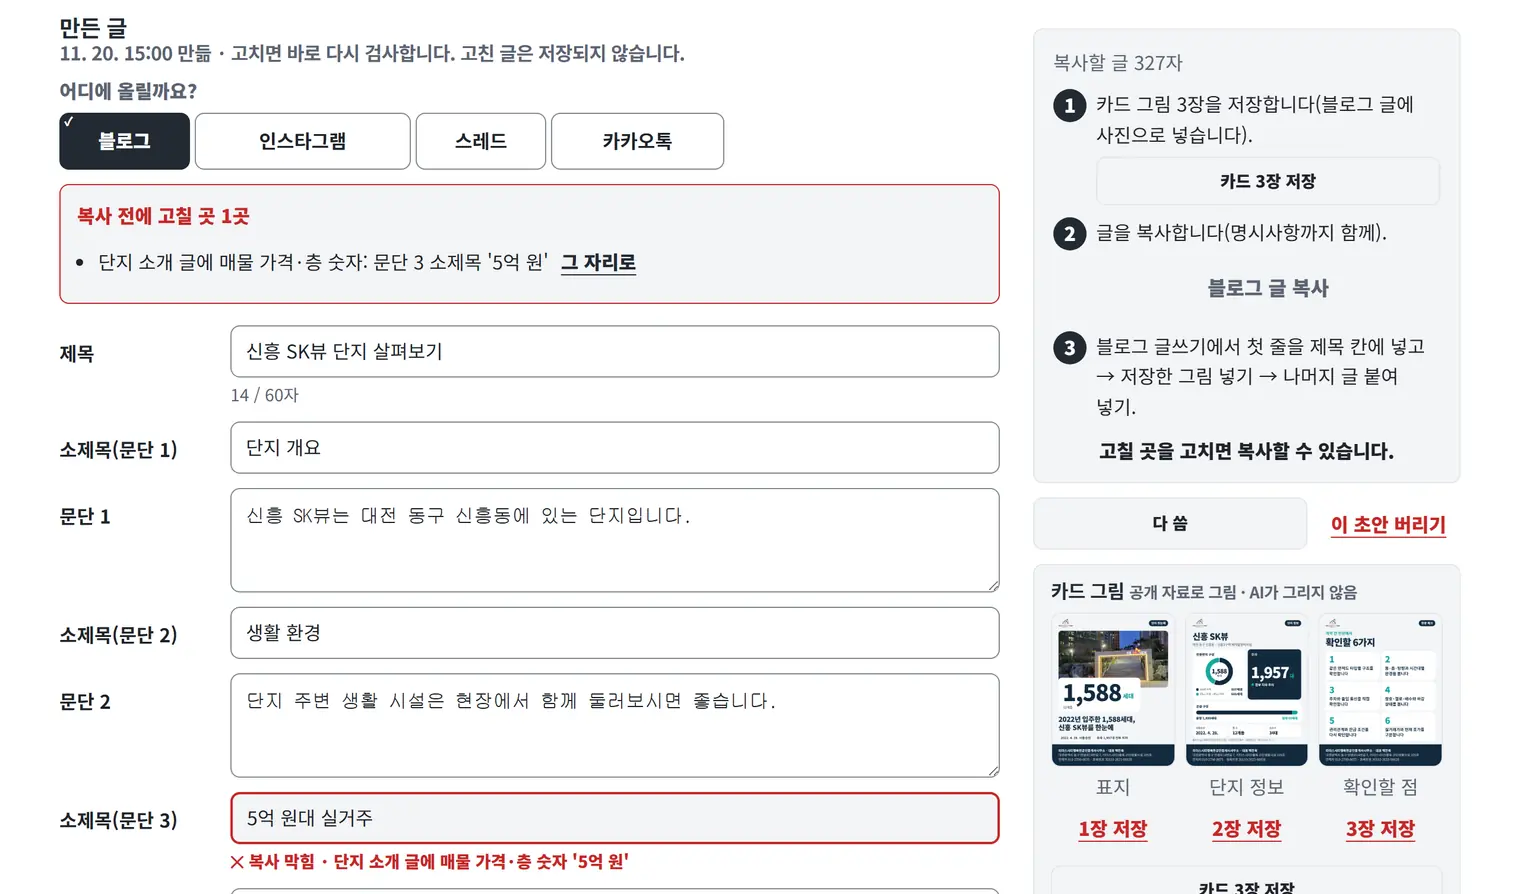
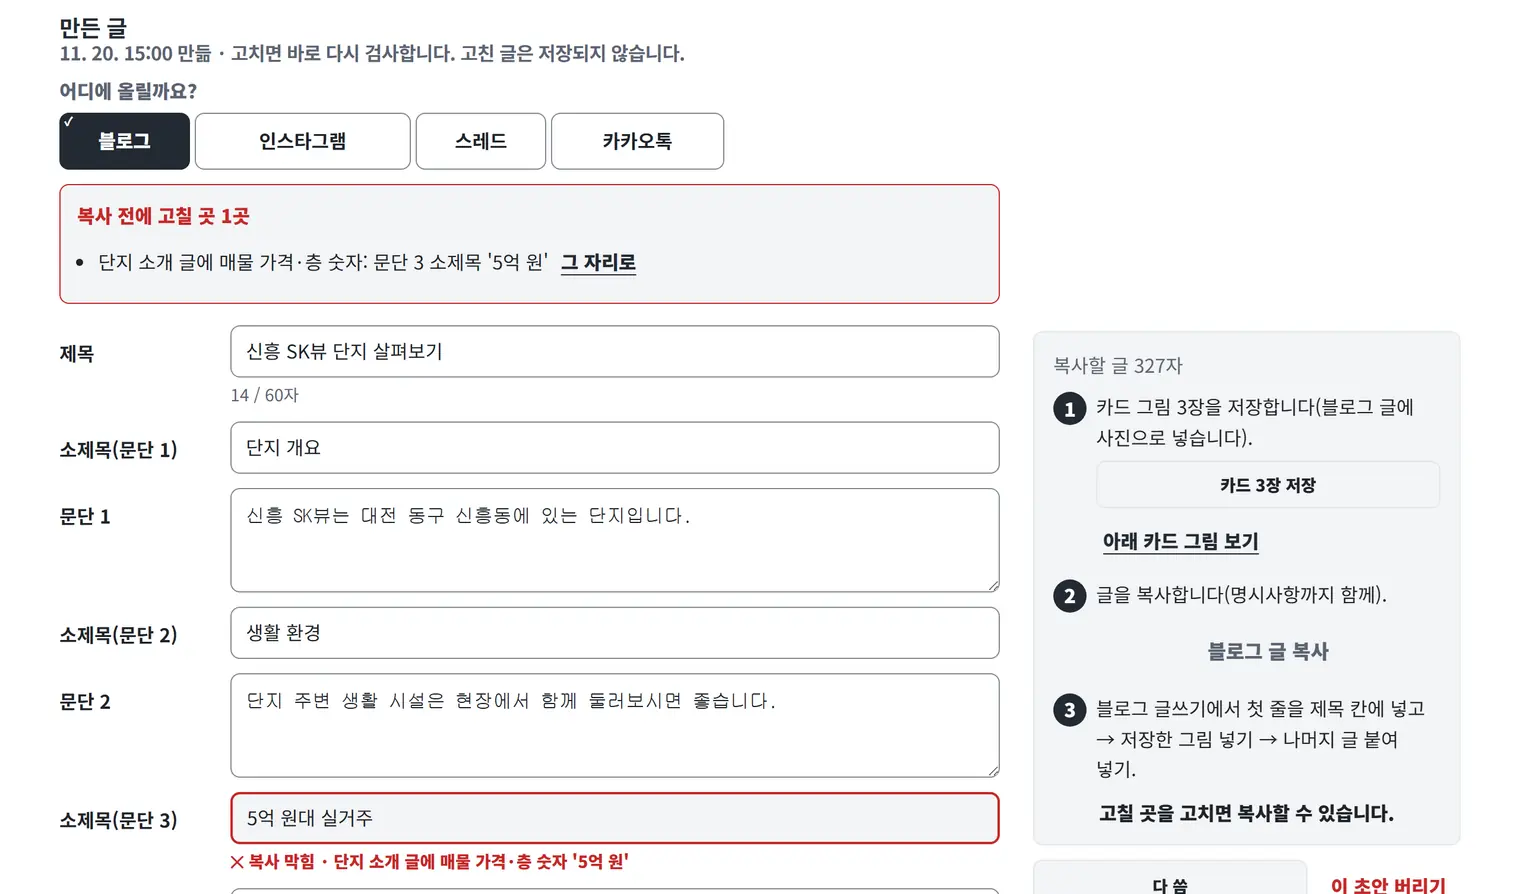
큰 모니터에서 실거래가 옆 칸과 글 초안 카드 그림을 크게 보여 줌
화면 폭 1440px 이상에서 실거래가 오른쪽 칸이 넓어지고, 1221px 이상에서 글 초안 카드 그림이 결과 아래에 크게 놓입니다.
- 문제: 큰 모니터에서도 실거래가 미리보기·단지 상세 칸이 380px로 좁아 면적 단추가 잘리고, 글 초안 카드 그림은 오른쪽 좁은 칸에 작게 들어갔습니다.
- 원인: 관리자 화면 틀이 1240px로 고정이고, 카드 그림 칸이 오른쪽 칸 안에만 있었습니다.
- 고친 것: 실거래가 화면만 1440px 이상에서 틀을 1680px까지, 오른쪽 칸을 480 ~ 538px로 넓혔습니다(사용자 선택 "① B ② B, 큰 모니터"). 글 초안은 카드 그림 칸만 결과 아래 전체 폭(한 장 320 × 400px)으로 옮기고, 올리는 순서 첫 줄에 '아래 카드 그림 보기' 고리를 더했습니다. 1439px 이하 실거래가, 1220px 이하 글 초안, 다른 화면은 그대로입니다.
- 확인: 자동 시험 1263개 통과, 화면 시험(e2e) 64개 통과, 1221·1366·1440·1920·390px 그림에서 가로 넘침·콘솔 오류 0, 공개 화면 산출물은 바뀌지 않았습니다. 사용 안내 그림 2장은 다시 찍었습니다.

diff --git a/src/styles/admin.css b/src/styles/admin.css
@@ -2049,6 +2049,17 @@ html:has(.rt-pick-bar:not([hidden])) { scroll-padding-bottom: calc(var(--rt-pick
   .bl-result__main .bl-order li > button { width: auto; min-width: 240px; justify-self: start; }
   .work-ui .bl-styles { grid-template-columns: repeat(4, minmax(0, 1fr)); }
 }
+/* 카드 그림 칸(2026-11-25 사용자 선택 "② B"): 1221px 이상은 스크립트가 칸을 결과 칸 바로 뒤(.bl-result 밖, 따라 내려오는 오른쪽 칸이 덮지 않게)로 옮겨
+   전체 폭에 한 장 320 × 400px로 보이고, 결과 칸이 숨으면 함께 숨는다. '올리는 순서' 1번 줄에 그 칸으로 가는 '아래 카드 그림 보기' 고리를 보인다.
+   1220px 이하는 칸 자리·모양이 그대로이고 고리는 없다. */
+.bl-order__jump { display: none; }
+@media (min-width: 1221px) {
+  .bl-order li > .bl-order__jump { display: inline-flex; grid-column: 2; align-items: center; justify-self: start; }
+  .bl-result + .bl-cardset { margin: 36px 0 12px; }
+  .bl-result[hidden] + .bl-cardset { display: none; }
+  .bl-result + .bl-cardset .bl-cardset__list { grid-template-columns: repeat(3, minmax(0, 320px)); gap: 16px; }
+  .bl-result + .bl-cardset .work-secondary-button { width: auto; min-width: 240px; }
+}
 
 /* 손님·손님 카드·메모 창고(단계 2, 사용자 선택 2026-11-21 02:26:01 목록 "A 한 열 카드"·카드 "A 차례대로")
    상태는 색만이 아니라 글자로 알린다. 모서리 2px, 누름 영역 44px 이상, 글자 16px 이상. 휴대폰 아래 메모 추가 막대는 아래 탭 바로 위. */
@@ -2901,6 +2912,13 @@ nav.tr-homelinks { display: flex; flex-wrap: wrap; gap: 0 24px; margin: 0 0 14px
   .rt-split > .rt-preview { grid-column: 2; grid-row: 1; }
   .rt-detail:not(:modal) { position: sticky; top: 16px; z-index: 2; grid-column: 2; grid-row: 1; inset: auto; width: auto; max-width: none; height: calc(100vh - 32px); max-height: calc(100vh - 32px); margin: 0; border: 1px solid var(--ds-edge); border-radius: var(--ad-radius); box-shadow: 0 8px 24px color-mix(in srgb, var(--ds-ink) 12%, transparent); overflow: hidden; }
   .rt-split:has(> [data-rt-main][hidden]) > .rt-detail { display: none; }
+}
+/* 큰 모니터(1440px 이상, 2026-11-25 사용자 선택 "① B"): 실거래가 화면만 틀을 1680px까지 넓히고, 오른쪽 칸(미리보기·단지 상세가 같은 격자 칸)을 틀의 32%(480 ~ 560px)로 넓힌다.
+   미리보기 카드는 300px 고정 대신 칸 폭에 맞춘다. 1439px 이하와 다른 관리자 화면(매출장부 등)의 틀은 그대로다. */
+@media (min-width: 1440px) {
+  .admin-body .admin-main:has(.rt-split) { width: min(calc(100% - 56px), 1680px); }
+  .rt-split { grid-template-columns: minmax(0, 1fr) clamp(480px, 32%, 560px); }
+  .rt-preview__cards img { max-width: 100%; }
 }
 @media (min-width: 1221px) and (hover: hover) and (pointer: fine) {
   .rt-detail__x { width: 36px; height: 36px; font-size: 1.25rem; }

diff --git a/DESIGN.md b/DESIGN.md
@@ -351,6 +351,7 @@ components:
 - "n건 보는 중" 줄: 패널 테두리 없이 위 2px 남색 선. 왼쪽에 "n건 보는 중"(남색 800)과 그 아래 켜짐 줄("거르기 없음 · 해제 거래 뺌" 또는 "켜짐: …" + 밑줄 "모두 끄기"), 오른쪽에 남색 테두리 "위에서 6건 담기"(보이는 거래가 6건 이하면 "보이는 n건 담기", 다 담으면 "6건 담음"으로 잠김).
 - 0건: 까닭 제목과 바로 할 일 단추(첫 단추 남색 바탕, 48px). 예: "신고가만 끄기", "최근 3년에서 다시 찾기"·"찾는 말 지우기", "거르기 초기화".
 - 목록은 매물 현황과 같은 경계: 1220px 이하 세 줄 카드, 1221px 이상 표. 표시는 색이 아니라 글자로: "신고가"는 남색 바탕 + ▲, "해제"는 회색 테두리 + `paper-2` 바탕, "새로 들어옴"은 점선 테두리, "직거래"는 거래 종류 아래 작은 글자.
+- 큰 모니터(2026-11-25 사용자 선택 "① B, 큰 모니터"): 1440px 이상에서만 실거래가 화면 틀을 1680px까지 넓히고(다른 관리자 화면은 1240px 그대로) 오른쪽 칸(미리보기·단지 상세)을 틀의 32%(480 ~ 560px, 1440px 480px·1920px 538px)로, 미리보기 카드는 300px 고정 대신 칸 폭(446 · 504px)에 맞춘다. 표는 오히려 넓어진다(844 → 888 · 1,126px). 1439px 이하는 380px 칸 그대로.
 - 과거 자료를 다 채우기 전에는 종류별(매매·분양권·전월세) 진행 막대와 "다 채움" 글자를 보인다. 979px 이하는 상태 줄 아래 한 줄("과거 자료 채우는 중 · 전월세 78%", 지금 채우는 종류만)로 줄이고 막대는 "자세히" 안에 둔다(첫 거래가 첫 화면에 들어오게). 매매를 채우는 동안(신고가 판정 준비 전)은 그 한 줄 끝에 "· 신고가는 채운 뒤"를 붙이고, 979px 이하에서는 목록 위 안내를 숨기며 이유 문장은 "자세히" 안에 둔다.
 - 구 거르기(2026-11-25 대전 5개 구, 사용자 결정 "처음 값은 전체로 해줘"·"구 이름도 줄마다 보이게 해줘"): 980px 이상은 보기 3칸 아래 한 줄에 구 단추 6개(전체·동구·중구·서구·유성구·대덕구, 거르기 단추와 같은 44px·켜짐 남색 바탕 + ✓, 1221px 이상 + 마우스는 36px). 979px 이하는 그 줄을 숨기고 거르기 단추 줄 맨 앞에 "전체 구 ▾" 고르기 단추 하나(다른 고르기 단추처럼 투명한 기본 목록을 덮음, 고르면 "서구 ▾"·남색 바탕). 390px 첫 거래 카드가 아래 탭 위에 오게 하려고 휴대폰에서는 줄을 두지 않는다. 구 이름은 표 작은 줄·카드·단지 상세 머리·관심 단지 목록에 "서구 · 둔산동"처럼 앞에 붙인다. 설정 화면 과거 채우기 막대 아래 "구마다 채우기" 줄 5개.
 - 설정 화면: 관심 단지 목록(받은 자료의 단지 이름 + "홈페이지 단지" 보조 글, "빼기"), 단지 찾기(입력칸 + "찾기" 단추, 누를 때만 찾음), 오늘 사용량 칸 4개(760px 이상 4열, 그 아래 2열), 최근 실행 10번(1220px 이하 세 줄 카드, 1221px 이상 표), "지금 다시 받기" 주 단추.
@@ -372,6 +373,7 @@ components:
 - 글 성격·만들기: 성격 칸은 묶음 넷(`.bl-style-groups`, 묶음 이름은 16px 굵은 `ink-soft` 글자 `.bl-style-group__name`)이고 묶음마다 979px 이하 2열·980px 이상 4열, 단추 높이는 한 가지다(2026-11-25 글 성격 21가지. 360·390px에서는 11줄이라 칸이 길고 접기는 두지 않음). 고른 성격의 설명 한 줄을 묶음 아래에 보이고, 거래 형태에 맞지 않는 성격은 점선·취소선으로 잠근 뒤 설명 줄 아래 옅은 글자로 까닭 한 줄을 쓴다. 메모 칸 위 '빠르게 넣기'(`.bl-quick`)는 이름 + 44px 점선 알약 단추 줄이고(점선은 '칸에 글을 넣는 단추'라는 뜻, 잠긴 성격의 점선과 달리 취소선·회색 바탕이 없음), 누르면 메모 칸에 머리말만 들어간다. 메모가 비면 안 되는 성격을 고르고 메모가 비었을 때는 글자 수 줄 아래 왼쪽 3px 남색 선을 단 한 줄(`.bl-memo-note`)로 알린다. 검정 주 단추 "글 초안 만들기" 아래 가운데 정렬 안내("만들면 오늘 3 / 10편이 됩니다. 1 ~ 3분 걸립니다." 또는 막는 까닭을 `stamp` 굵게).
 - 기다림 판: 남색 1.5px 테두리, "글을 만들고 있습니다", 보낸 시각과 지난 시간(숫자 폭 고정), 10분 안내는 왼쪽 3px 남색 선 `paper-2` 칸. "만들기 취소"는 보조 단추.
 - 결과: 980px 이상은 왼쪽 글(고른 올릴 곳의 칸: 블로그는 제목·문단·해시태그, 인스타그램은 인스타그램 글·해시태그, 스레드는 스레드 글, 카카오톡은 제목·인스타그램 글)과 오른쪽 360px 붙박이 칸(소재지 → 블로그는 '올리는 순서' 상자, 그 밖은 '올라갈 모습' 어림 그림 → '다 씀'·밑줄 빨강 '이 초안 버리기' → 명시사항 → '복사할 글 미리 보기'). 2026-11-25 전에는 왼쪽에 'SNS 짧은 글' 칸, 오른쪽에 '블로그 글 복사'·'SNS 글 복사' 단추 둘이었다. 979px 이하는 위아래로 쌓고 아래에 공용 결과 막대(`.work-result-bar`, "✓ 복사할 수 있음"/"고칠 곳 n곳 · 복사 막힘" + 고른 올릴 곳의 "○○ 글 복사")를 붙인다.
+- 카드 그림 칸(2026-11-25 사용자 선택 "② B, 큰 모니터"): 1221px 이상은 '카드 그림' 칸만 결과 아래 전체 폭(결과 칸 바로 뒤, 따라 내려오는 오른쪽 칸이 덮지 않게)으로 내려 카드를 한 장 320 × 400px로 보인다(매물 표지 1장도 같은 크기). 오른쪽 '올리는 순서' 1번 줄(카드 저장 단추 아래)에 밑줄 남색 고리 '아래 카드 그림 보기'(`#bl-cardset`)를 둔다. 1220px 이하는 지금 자리('다 씀' 줄 다음, 명시사항 위)·모양 그대로이고 고리는 없다.
 - 올릴 곳(2026-11-25): 결과 머리 줄 아래 "어디에 올릴까요?"와 고르기 칸 넷(`.bl-places`, 블로그·인스타그램·스레드·카카오톡). 360px에서도 한 줄에 들게 칸 폭을 글자 수대로 3:5:3:4로 나누고(980px 이상은 최대 560px), 고른 표시 "✓"는 단추 왼쪽 위에 작게 둔다. '올라갈 모습'(`.bl-look`·`.bl-post`, 제목 옆 작은 글 "어림 그림")은 인스타그램이 그림 → 글, 스레드가 글 → 그림, 카카오톡이 그림과 말풍선이고, 자동으로 붙는 글은 `--ad-auto` 바탕 칸에 4줄까지만 보인다. '올리는 순서' 상자(`.bl-do`, `paper-2` 바탕)는 글자 수 줄(`.bl-meter`, 한도를 넘으면 `stamp` 굵게) → 남색 동그라미 번호 ① 그림 저장 ② 글 복사(주 단추 "○○ 글 복사") ③ 그곳에서 붙여 넣기 순서다. 980px 이상에서 블로그는 오른쪽 붙박이 칸에, 그 밖은 왼쪽 고치는 칸 아래에 둔다. 다른 올릴 곳의 문제는 검사 칸 끝 회색 한 줄(`.bl-check__else`)로만 알린다.
 - 검사 칸: 막힘이 있으면 `stamp` 1.5px 테두리 + "복사 전에 고칠 곳 n곳"과 줄마다 밑줄 남색 "그 자리로"(44px). 없으면 남색 테두리 "✓ 복사할 수 있습니다". 확인 항목은 검정 제목 "확인할 곳 n곳(복사는 됨)". 막힌 문단은 `stamp` 2px 실선 + "✕ 복사 막힘 · …", 확인 문단은 금색 `#8a6424` 2px 점선 + "! 확인 · …"(기호·글자로도 구분).
 - 명시사항 칸: `paper-2` 바탕, 제목 "명시사항 · 코드가 붙임 · AI가 쓰지 않음". 빈 항목은 빨강 바탕 흰 글자 "비어 있음" 표. 복사 글은 본문 → 해시태그 → "──────────" → 명시사항 순서.
@@ -393,7 +395,7 @@ components:
 ### 실거래가 단지 상세 칸(2026-11-25, 대장 지시로 전달된 사용자 결정: 중개날개처럼 거래를 누르면 단지 상세)
 
 - 여는 곳: 단지 번호가 있는 거래의 단지 이름이 글자 모양 그대로인 단추이고(마우스를 올리면 밑줄, 키보드 포커스는 굵은 테두리), 표 줄·카드의 빈 곳을 눌러도 연다(체크칸·링크·접기 줄은 제외). 마우스를 올린 표 줄은 아주 옅은 남색 바탕이 된다.
-- 1221px 이상: 오른쪽 '미리보기' 칸(380px) 자리에 같은 폭으로 겹쳐 연다(sticky, 화면 위에서 16px, 높이는 화면 높이 − 32px). 겹친 동안 미리보기는 누를 수 없고, 닫으면 미리보기가 그대로 다시 보인다. 마우스 PC는 관리자 예외(누르는 곳 36px·보조 글 13px).
+- 1221px 이상: 오른쪽 '미리보기' 칸(380px) 자리에 같은 폭으로 겹쳐 연다(sticky, 화면 위에서 16px, 높이는 화면 높이 − 32px). 겹친 동안 미리보기는 누를 수 없고, 닫으면 미리보기가 그대로 다시 보인다. 마우스 PC는 관리자 예외(누르는 곳 36px·보조 글 13px). 1440px 이상은 미리보기 칸과 함께 480 ~ 538px로 넓어져 1920px에서 면적 단추 5개가 다 보인다(2026-11-25 사용자 선택 "① B").
 - 1220px 이하: 화면 전체 칸(맨 위 층)이라 아래 막대 '홍보물 만들기'·아래 탭을 덮는다. 머리 줄과 아래 단추 줄('목록으로'·청록 주 단추 '홍보물에 담기')은 고정하고 가운데만 넘긴다. 글자 16px·누르는 곳 44px, 보조 글은 다른 실거래가 칸과 같은 14px.
 - 칸 차례: 작은 글 "단지 상세 · 매매" → 단지 이름(남색 800) → 동네 · n년 준공 · n세대(자료에 있는 것만) → 면적 단추 줄(흰 바탕 테두리, 고른 것은 남색 바탕 흰 글자, 많으면 줄 안에서만 가로로 넘김) → "이 면적 최근 거래" 큰 금액(남색 900, 28px)과 '▲ 신고가' 딱지(목록 딱지와 같은 모양) → 층 · 계약일 · 중개 구분 → 회색 직전 거래 줄과 굵은 "직전보다 ▲ n" → 회색 바탕 2열 숫자 칸(최고가 대비는 ▲면 도장색, 칸이 홀수면 마지막 칸은 한 줄 전체) → "가격 흐름(36개월)" 흐름선(거래 흐름과 같은 남색 선·옅은 채움, 눈금 처음·가운데·끝 달) → 최근 거래 줄(계약일·층 왼쪽, 금액 오른쪽, 해제는 줄 긋기, 표시는 글자 딱지, 누른 거래는 회색 바탕 + 왼쪽 남색 띠 + '누른 거래').
 - '평'은 쓰지 않는다(평형 최고 대신 "84㎡대 최고"). 색만으로 상태를 알리지 않는다(▲·딱지 글자·줄 긋기).
